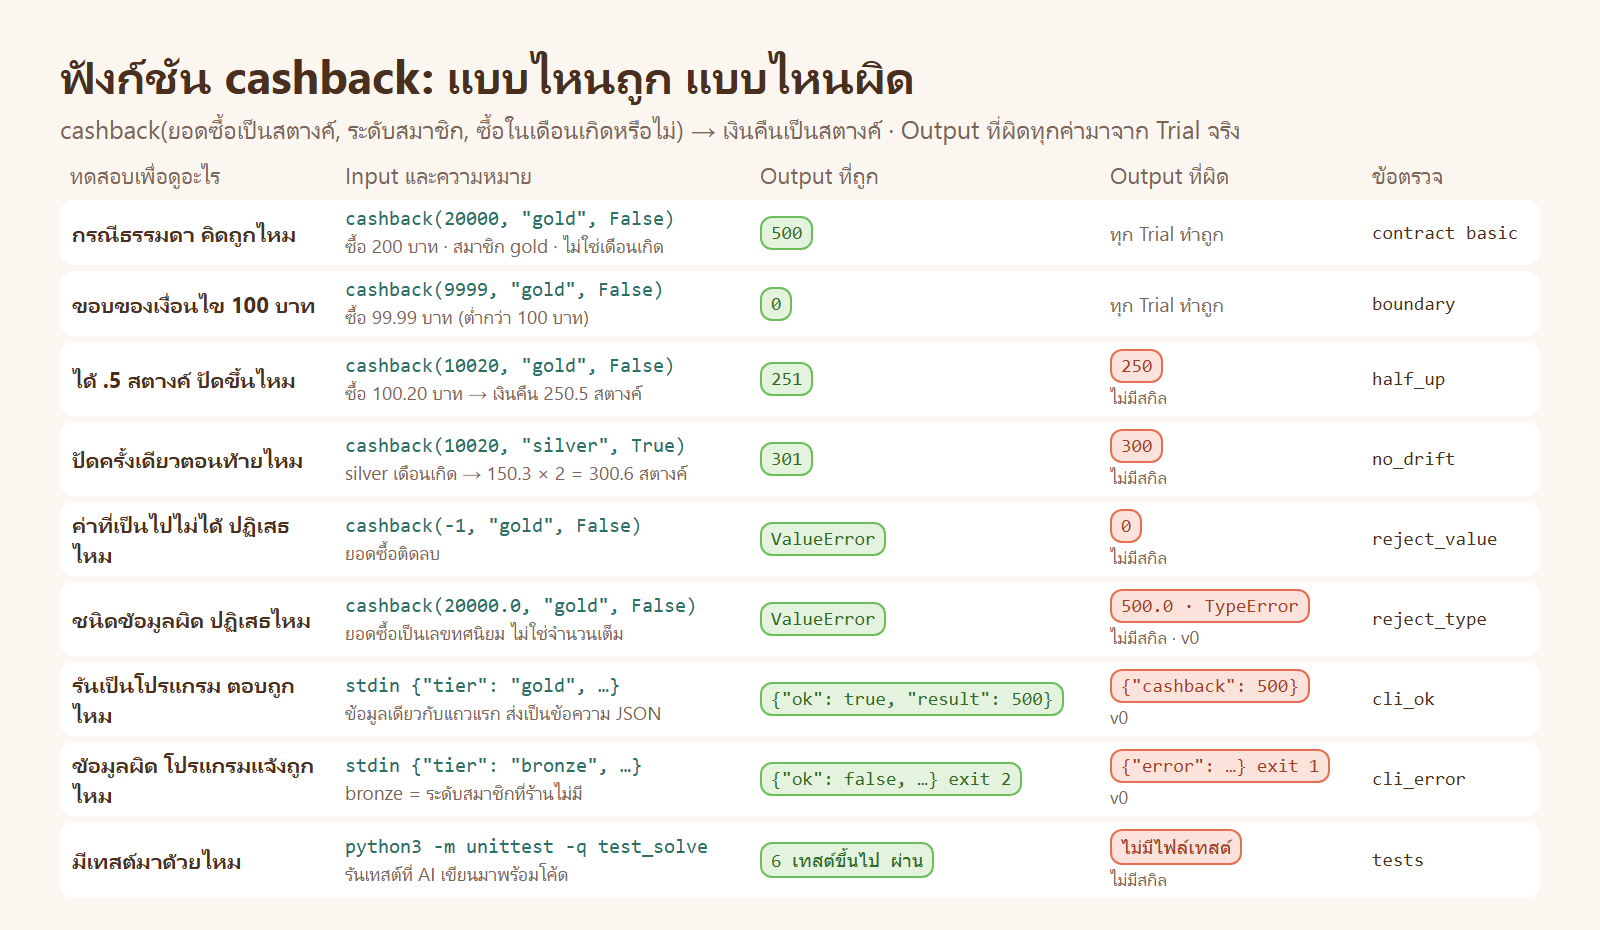
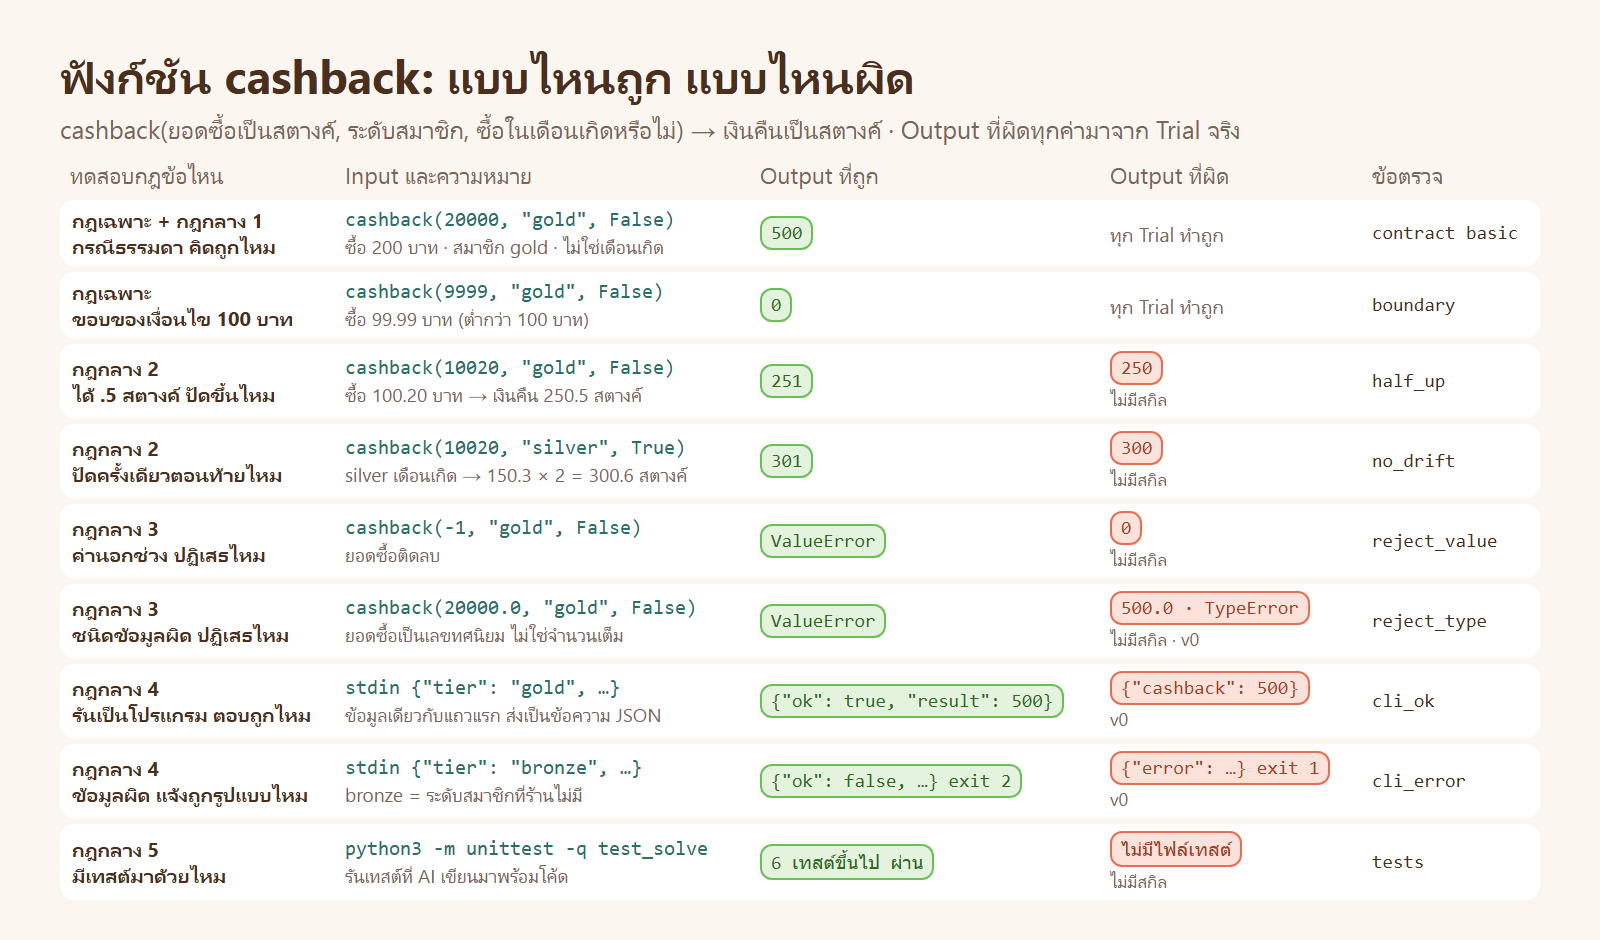
Skill Optimizer Basic: declare the shop rules before the examples
The problem section now states the two layers of rules first (task-specific
rules in each brief, and the five shop-wide rules with the reason for each),
then the worked function, and every right/wrong example names the rule it tests.

diff --git a/03_week03/05_Skill_Optimizer_Basic/tools/diagrams.py b/03_week03/05_Skill_Optimizer_Basic/tools/diagrams.py
@@ -76,15 +76,15 @@ def grader():
 def examples():
     """ตัวอย่าง input -> output ที่ถูกและผิดของฟังก์ชัน cashback (ค่าที่ผิดมาจาก Trial จริงใน results/runs)"""
     rows = [  # (ทดสอบเพื่อดูอะไร, input, ความหมายของ input, ถูก, ผิด, ที่มาของค่าที่ผิด, ข้อตรวจ)
-        ("กรณีธรรมดา คิดถูกไหม", "cashback(20000, \"gold\", False)", "ซื้อ 200 บาท · สมาชิก gold · ไม่ใช่เดือนเกิด", "500", "", "ทุก Trial ทำถูก", "contract basic"),
-        ("ขอบของเงื่อนไข 100 บาท", "cashback(9999, \"gold\", False)", "ซื้อ 99.99 บาท (ต่ำกว่า 100 บาท)", "0", "", "ทุก Trial ทำถูก", "boundary"),
-        ("ได้ .5 สตางค์ ปัดขึ้นไหม", "cashback(10020, \"gold\", False)", "ซื้อ 100.20 บาท → เงินคืน 250.5 สตางค์", "251", "250", "ไม่มีสกิล", "half_up"),
-        ("ปัดครั้งเดียวตอนท้ายไหม", "cashback(10020, \"silver\", True)", "silver เดือนเกิด → 150.3 × 2 = 300.6 สตางค์", "301", "300", "ไม่มีสกิล", "no_drift"),
-        ("ค่าที่เป็นไปไม่ได้ ปฏิเสธไหม", "cashback(-1, \"gold\", False)", "ยอดซื้อติดลบ", "ValueError", "0", "ไม่มีสกิล", "reject_value"),
-        ("ชนิดข้อมูลผิด ปฏิเสธไหม", "cashback(20000.0, \"gold\", False)", "ยอดซื้อเป็นเลขทศนิยม ไม่ใช่จำนวนเต็ม", "ValueError", "500.0 · TypeError", "ไม่มีสกิล · v0", "reject_type"),
-        ("รันเป็นโปรแกรม ตอบถูกไหม", "stdin {\"tier\": \"gold\", …}", "ข้อมูลเดียวกับแถวแรก ส่งเป็นข้อความ JSON", "{\"ok\": true, \"result\": 500}", "{\"cashback\": 500}", "v0", "cli_ok"),
-        ("ข้อมูลผิด โปรแกรมแจ้งถูกไหม", "stdin {\"tier\": \"bronze\", …}", "bronze = ระดับสมาชิกที่ร้านไม่มี", "{\"ok\": false, …} exit 2", "{\"error\": …} exit 1", "v0", "cli_error"),
-        ("มีเทสต์มาด้วยไหม", "python3 -m unittest -q test_solve", "รันเทสต์ที่ AI เขียนมาพร้อมโค้ด", "6 เทสต์ขึ้นไป ผ่าน", "ไม่มีไฟล์เทสต์", "ไม่มีสกิล", "tests"),
+        ("กฎเฉพาะ + กฎกลาง 1<br>กรณีธรรมดา คิดถูกไหม", "cashback(20000, \"gold\", False)", "ซื้อ 200 บาท · สมาชิก gold · ไม่ใช่เดือนเกิด", "500", "", "ทุก Trial ทำถูก", "contract basic"),
+        ("กฎเฉพาะ<br>ขอบของเงื่อนไข 100 บาท", "cashback(9999, \"gold\", False)", "ซื้อ 99.99 บาท (ต่ำกว่า 100 บาท)", "0", "", "ทุก Trial ทำถูก", "boundary"),
+        ("กฎกลาง 2<br>ได้ .5 สตางค์ ปัดขึ้นไหม", "cashback(10020, \"gold\", False)", "ซื้อ 100.20 บาท → เงินคืน 250.5 สตางค์", "251", "250", "ไม่มีสกิล", "half_up"),
+        ("กฎกลาง 2<br>ปัดครั้งเดียวตอนท้ายไหม", "cashback(10020, \"silver\", True)", "silver เดือนเกิด → 150.3 × 2 = 300.6 สตางค์", "301", "300", "ไม่มีสกิล", "no_drift"),
+        ("กฎกลาง 3<br>ค่านอกช่วง ปฏิเสธไหม", "cashback(-1, \"gold\", False)", "ยอดซื้อติดลบ", "ValueError", "0", "ไม่มีสกิล", "reject_value"),
+        ("กฎกลาง 3<br>ชนิดข้อมูลผิด ปฏิเสธไหม", "cashback(20000.0, \"gold\", False)", "ยอดซื้อเป็นเลขทศนิยม ไม่ใช่จำนวนเต็ม", "ValueError", "500.0 · TypeError", "ไม่มีสกิล · v0", "reject_type"),
+        ("กฎกลาง 4<br>รันเป็นโปรแกรม ตอบถูกไหม", "stdin {\"tier\": \"gold\", …}", "ข้อมูลเดียวกับแถวแรก ส่งเป็นข้อความ JSON", "{\"ok\": true, \"result\": 500}", "{\"cashback\": 500}", "v0", "cli_ok"),
+        ("กฎกลาง 4<br>ข้อมูลผิด แจ้งถูกรูปแบบไหม", "stdin {\"tier\": \"bronze\", …}", "bronze = ระดับสมาชิกที่ร้านไม่มี", "{\"ok\": false, …} exit 2", "{\"error\": …} exit 1", "v0", "cli_error"),
+        ("กฎกลาง 5<br>มีเทสต์มาด้วยไหม", "python3 -m unittest -q test_solve", "รันเทสต์ที่ AI เขียนมาพร้อมโค้ด", "6 เทสต์ขึ้นไป ผ่าน", "ไม่มีไฟล์เทสต์", "ไม่มีสกิล", "tests"),
     ]
     th = "font-size:23px;color:#7A6557;text-align:left;padding:0 10px 4px;font-weight:400"
     chip = "display:inline-block;border-radius:12px;padding:4px 9px;%s;font-size:19px;white-space:nowrap" % MONO
@@ -94,7 +94,7 @@ def examples():
                  "<div style='font-size:18px;color:#7A6557;margin-top:2px'>%s</div>" % (chip, bad, src)) if bad else \
                 "<span style='font-size:20px;color:#7A6557'>%s</span>" % src
         h += """<tr style='background:#fff'>
-          <td style='padding:7px 12px;font-size:22px;font-weight:700;color:#4A2F1F;border-radius:14px 0 0 14px'>%s</td>
+          <td style='padding:7px 12px;font-size:20px;font-weight:700;color:#4A2F1F;border-radius:14px 0 0 14px;line-height:1.3'>%s</td>
           <td style='padding:7px 10px'><div style='%s;font-size:20px;color:#2A6F68;white-space:nowrap'>%s</div>
             <div style='font-size:19px;color:#7A6557;margin-top:2px;white-space:nowrap'>%s</div></td>
           <td style='padding:7px 10px'><span style='%s;background:#E3F3DE;border:2px solid #6BBF59;color:#2F6B22'>%s</span></td>
@@ -105,9 +105,9 @@ def examples():
     <div class='sub' style='margin-bottom:8px'>cashback(ยอดซื้อเป็นสตางค์, ระดับสมาชิก, ซื้อในเดือนเกิดหรือไม่) → เงินคืนเป็นสตางค์ · Output ที่ผิดทุกค่ามาจาก Trial จริง</div>
     <table style='border-collapse:separate;border-spacing:0 6px;width:100%%;table-layout:fixed'>
       <colgroup><col style='width:275px'><col style='width:415px'><col style='width:350px'><col style='width:262px'><col style='width:178px'></colgroup>
-      <tr><th style='%s'>ทดสอบเพื่อดูอะไร</th><th style='%s'>Input และความหมาย</th><th style='%s'>Output ที่ถูก</th><th style='%s'>Output ที่ผิด</th><th style='%s'>ข้อตรวจ</th></tr>%s</table>""" % (
+      <tr><th style='%s'>ทดสอบกฎข้อไหน</th><th style='%s'>Input และความหมาย</th><th style='%s'>Output ที่ถูก</th><th style='%s'>Output ที่ผิด</th><th style='%s'>ข้อตรวจ</th></tr>%s</table>""" % (
         th, th, th, th, th, h)
-    shot("d03-examples", body, 930)
+    shot("d03-examples", body, 940)
 
 
 if __name__ == "__main__":
